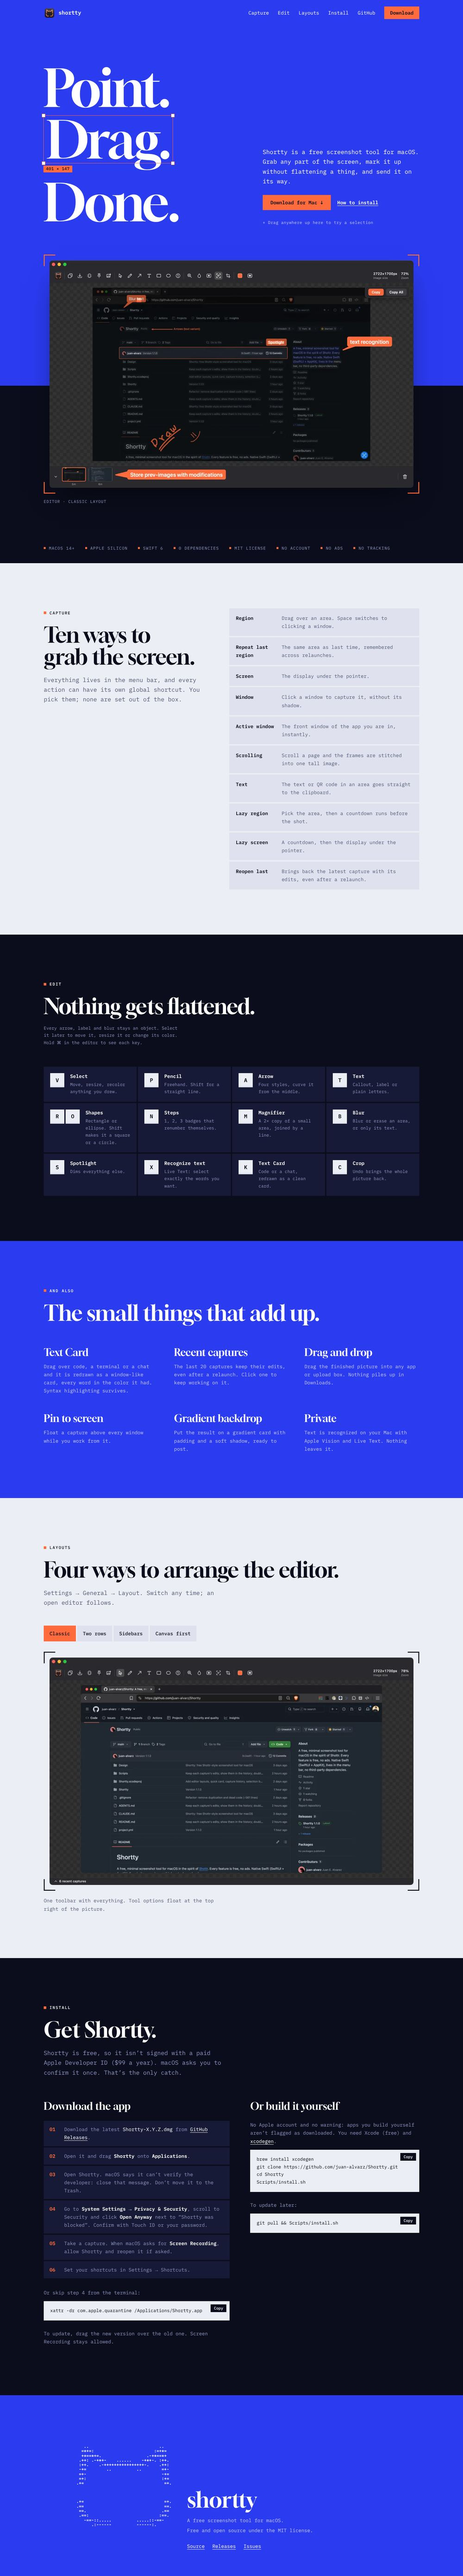
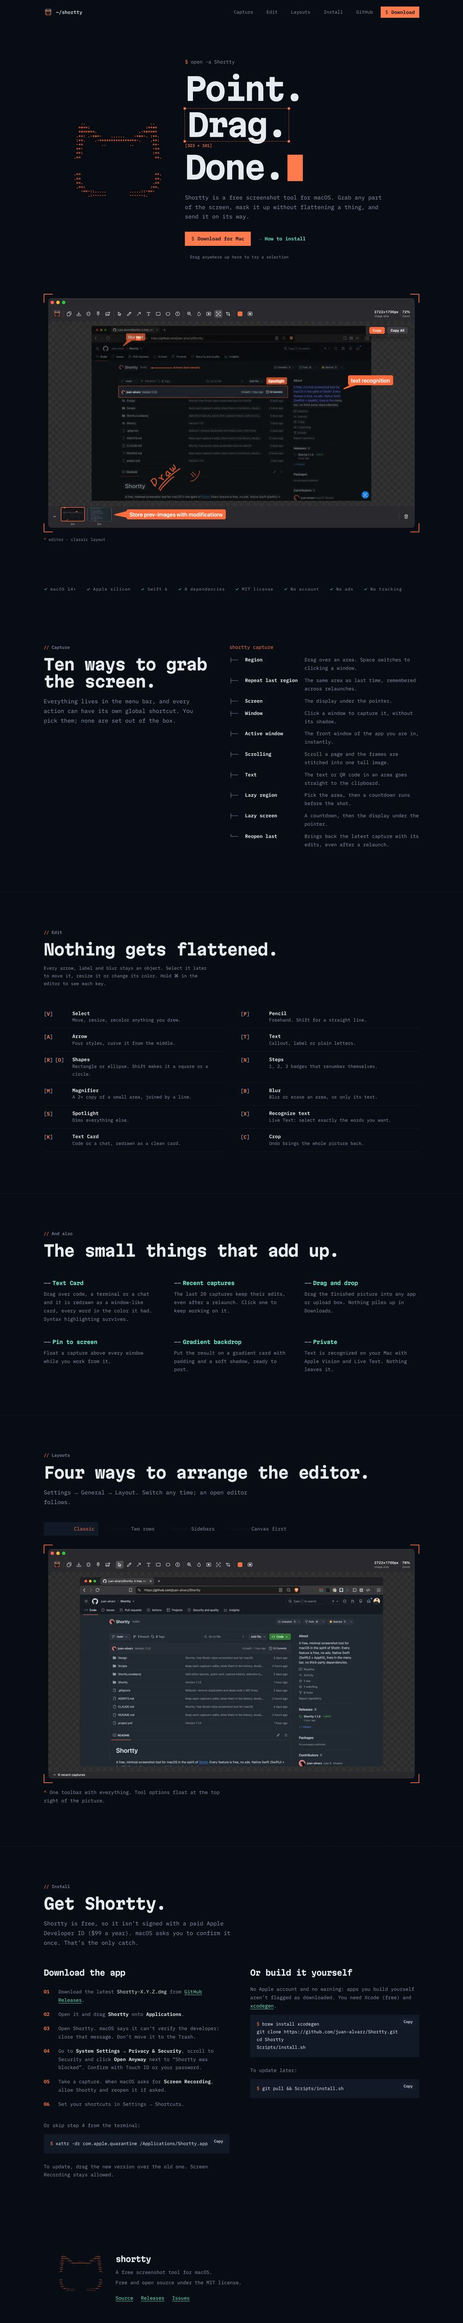
Version 04: Terminal
Claude-Session: https://claude.ai/code/session_019xH8RKv4cB1Pgr3WMhaeZY

diff --git a/src/styles/global.css b/src/styles/global.css
@@ -1,9 +1,11 @@
 /*
-  Layout: the page is a capture surface. Full-width color bands (primary, light, dark),
-  accent viewfinder corners and selection frames taken from the app icon and the
-  app's own selection UI. Sharp corners, no card borders.
+  Layout (version 04, terminal): a Nous Hermes style terminal. Everything is monospace,
+  headlines included. One dark surface, sections introduced like code comments,
+  lists drawn as ASCII trees, the app icon as ASCII art. Shortty orange for
+  selections and prompts. Sharp corners, no card borders.
 */
-@import '@fontsource/gloock/latin-400.css';
+@import '@fontsource/martian-mono/latin-400.css';
+@import '@fontsource/martian-mono/latin-700.css';
 @import '@fontsource/ibm-plex-mono/latin-400.css';
 @import '@fontsource/ibm-plex-mono/latin-500.css';
 @import '@fontsource/ibm-plex-mono/latin-600.css';
@@ -11,27 +13,28 @@
 :root {
   color-scheme: dark;
 
-  /* Color, named by role. Here: primary = cobalt, dark = ink, light = paper, accent = Shortty orange. */
-  --primary: #2b3bf0;
-  --primary-deep: #1f2bc4;
-  --dark: #0b0d1c;
-  --dark-raised: #161a36;
-  --light: #eceef5;
-  --light-raised: #dfe2ee;
-  --accent: #ff6b3d;
-  --white: #ffffff;
-  --on-primary-muted: #c6cbff;
-  --on-dark-muted: #8f96c4;
-  --on-light-muted: #525877;
+  /* Color, named by role. Here: dark = terminal background, primary = a raised panel, accent = Shortty orange. */
+  --primary: #111826;
+  --primary-deep: #0c121d;
+  --dark: #080c14;
+  --dark-raised: #111826;
+  --light: #0b1019;
+  --light-raised: #141c2b;
+  --accent: #ff7a4d;
+  --signal: #6ee7c8;
+  --white: #e6ebf2;
+  --on-primary-muted: #8792a6;
+  --on-dark-muted: #8792a6;
+  --on-light-muted: #8792a6;
 
   /* Type */
-  --display: 'Gloock', 'Iowan Old Style', Georgia, serif;
+  --display: 'Martian Mono', ui-monospace, Menlo, monospace;
   --mono: 'IBM Plex Mono', ui-monospace, 'SF Mono', Menlo, monospace;
   --step-0: 0.95rem;
-  --step-1: 1.15rem;
-  --step-2: clamp(1.5rem, 3vw, 2rem);
-  --step-3: clamp(2.4rem, 6vw, 4.2rem);
-  --step-4: clamp(3.6rem, 13vw, 10rem);
+  --step-1: 1.1rem;
+  --step-2: clamp(1.2rem, 2.4vw, 1.5rem);
+  --step-3: clamp(1.8rem, 4.4vw, 3rem);
+  --step-4: clamp(2.6rem, 7.5vw, 6rem);
 
   --max: 1200px;
 }
@@ -44,28 +47,39 @@ body {
   margin: 0;
   background: var(--dark);
   color: var(--white);
-  font: 400 var(--step-0)/1.65 var(--mono);
+  font: 400 var(--step-0)/1.7 var(--mono);
   -webkit-font-smoothing: antialiased;
 }
 
+::selection { background: var(--accent); color: var(--dark); }
+
 img { max-width: 100%; height: auto; display: block; }
-a { color: inherit; text-underline-offset: 4px; text-decoration-thickness: 1px; }
+a { color: var(--signal); text-underline-offset: 4px; text-decoration-thickness: 1px; }
 a:hover { color: var(--accent); }
 :focus-visible { outline: 2px solid var(--accent); outline-offset: 3px; }
 
 h1, h2, h3 { margin: 0; font-weight: 400; text-wrap: balance; }
-h2 { font: var(--step-3)/1 var(--display); letter-spacing: -0.02em; }
+h2 { font: 700 var(--step-3)/1.1 var(--display); letter-spacing: -0.04em; }
 h3 { font: 600 var(--step-0)/1.3 var(--mono); }
 p { margin: 0; }
-strong { font-weight: 600; }
+strong { font-weight: 600; color: var(--white); }
 
 code, pre { font-family: var(--mono); }
 
-/* A full-width color band with a centered inner column. */
-.band { padding-block: clamp(72px, 10vw, 140px); }
-.band.primary { background: var(--primary); color: var(--white); }
-.band.light { background: var(--light); color: var(--dark); }
-.band.dark { background: var(--dark); color: var(--white); }
+/* Sections share one surface; a rule of box-drawing characters separates them. */
+.band { position: relative; padding-block: clamp(72px, 9vw, 120px); }
+.band + .band::before {
+  content: '────────────────────────────────────────────────────────────────────────────────────────────────────────────────────────────────────────────────────────────────────────────────────────────';
+  position: absolute;
+  top: 0;
+  left: 0;
+  right: 0;
+  overflow: hidden;
+  white-space: nowrap;
+  color: var(--light-raised);
+  line-height: 1;
+}
+.band.primary, .band.light, .band.dark { background: var(--dark); color: var(--white); }
 
 .wrap {
   max-width: var(--max);
@@ -74,43 +88,39 @@ code, pre { font-family: var(--mono); }
   padding-right: max(16px, env(safe-area-inset-right, 0px));
 }
 
-/* Section eyebrow: an accent selection handle and a lowercase mono word. */
+/* Section eyebrow, written like a code comment. */
 .label {
-  display: inline-flex;
-  align-items: center;
-  gap: 10px;
-  margin-bottom: 28px;
-  font: 500 0.78rem/1 var(--mono);
-  letter-spacing: 0.16em;
-  text-transform: uppercase;
+  display: inline-block;
+  margin-bottom: 20px;
+  font: 500 0.85rem/1 var(--mono);
+  color: var(--on-dark-muted);
 }
-.label::before { content: ''; width: 8px; height: 8px; background: var(--accent); }
+.label::before { content: '// '; color: var(--accent); }
 
-.lead { font-size: var(--step-1); max-width: 52ch; margin-top: 24px; }
-.light .lead { color: var(--on-light-muted); }
-.dark .lead { color: var(--on-dark-muted); }
-.primary .lead { color: var(--on-primary-muted); }
+.lead { font-size: var(--step-1); max-width: 60ch; margin-top: 20px; color: var(--on-dark-muted); }
 
 .button {
   display: inline-flex;
   align-items: center;
   gap: 10px;
-  padding: 16px 24px;
+  padding: 14px 20px;
   font: 600 var(--step-0)/1 var(--mono);
   text-decoration: none;
   background: var(--accent);
   color: var(--dark);
 }
-.button:hover { background: var(--white); color: var(--dark); }
-.button.ghost { background: transparent; color: inherit; padding-inline: 4px; text-decoration: underline; }
+.button::before { content: '$'; opacity: 0.6; }
+.button:hover { background: var(--signal); color: var(--dark); }
+.button.ghost { background: transparent; color: var(--signal); padding-inline: 0; }
+.button.ghost::before { content: '→'; }
 .button.ghost:hover { color: var(--accent); }
 
 /* Accent viewfinder corners around whatever it wraps, like the app icon. */
 .viewfinder {
   --c: var(--accent);
-  --len: clamp(18px, 3vw, 36px);
-  --w: 3px;
-  padding: clamp(10px, 1.6vw, 18px);
+  --len: clamp(14px, 2.4vw, 28px);
+  --w: 2px;
+  padding: clamp(8px, 1.4vw, 14px);
   background:
     linear-gradient(var(--c) 0 0) top left / var(--len) var(--w),
     linear-gradient(var(--c) 0 0) top left / var(--w) var(--len),
@@ -126,30 +136,28 @@ code, pre { font-family: var(--mono); }
 /* A selection rectangle with square handles and a size tag, like Shortty's own. */
 .selection {
   position: relative;
-  outline: 1px solid var(--accent);
+  outline: 1px dashed var(--accent);
 }
 .selection > .handle {
   position: absolute;
-  width: 9px;
-  height: 9px;
-  background: var(--white);
-  outline: 1px solid var(--accent);
+  width: 7px;
+  height: 7px;
+  background: var(--accent);
 }
-.selection > .handle:nth-of-type(1) { top: -5px; left: -5px; }
-.selection > .handle:nth-of-type(2) { top: -5px; right: -5px; }
-.selection > .handle:nth-of-type(3) { bottom: -5px; left: -5px; }
-.selection > .handle:nth-of-type(4) { bottom: -5px; right: -5px; }
+.selection > .handle:nth-of-type(1) { top: -4px; left: -4px; }
+.selection > .handle:nth-of-type(2) { top: -4px; right: -4px; }
+.selection > .handle:nth-of-type(3) { bottom: -4px; left: -4px; }
+.selection > .handle:nth-of-type(4) { bottom: -4px; right: -4px; }
 .selection > .size {
   position: absolute;
-  left: -1px;
+  left: 0;
   top: calc(100% + 8px);
-  padding: 4px 8px;
   white-space: nowrap;
   font: 500 0.75rem/1 var(--mono);
-  letter-spacing: 0.04em;
-  background: var(--accent);
-  color: var(--dark);
+  color: var(--accent);
 }
+.selection > .size::before { content: '['; }
+.selection > .size::after { content: ']'; }
 
 @media (prefers-reduced-motion: reduce) {
   html { scroll-behavior: auto; }
